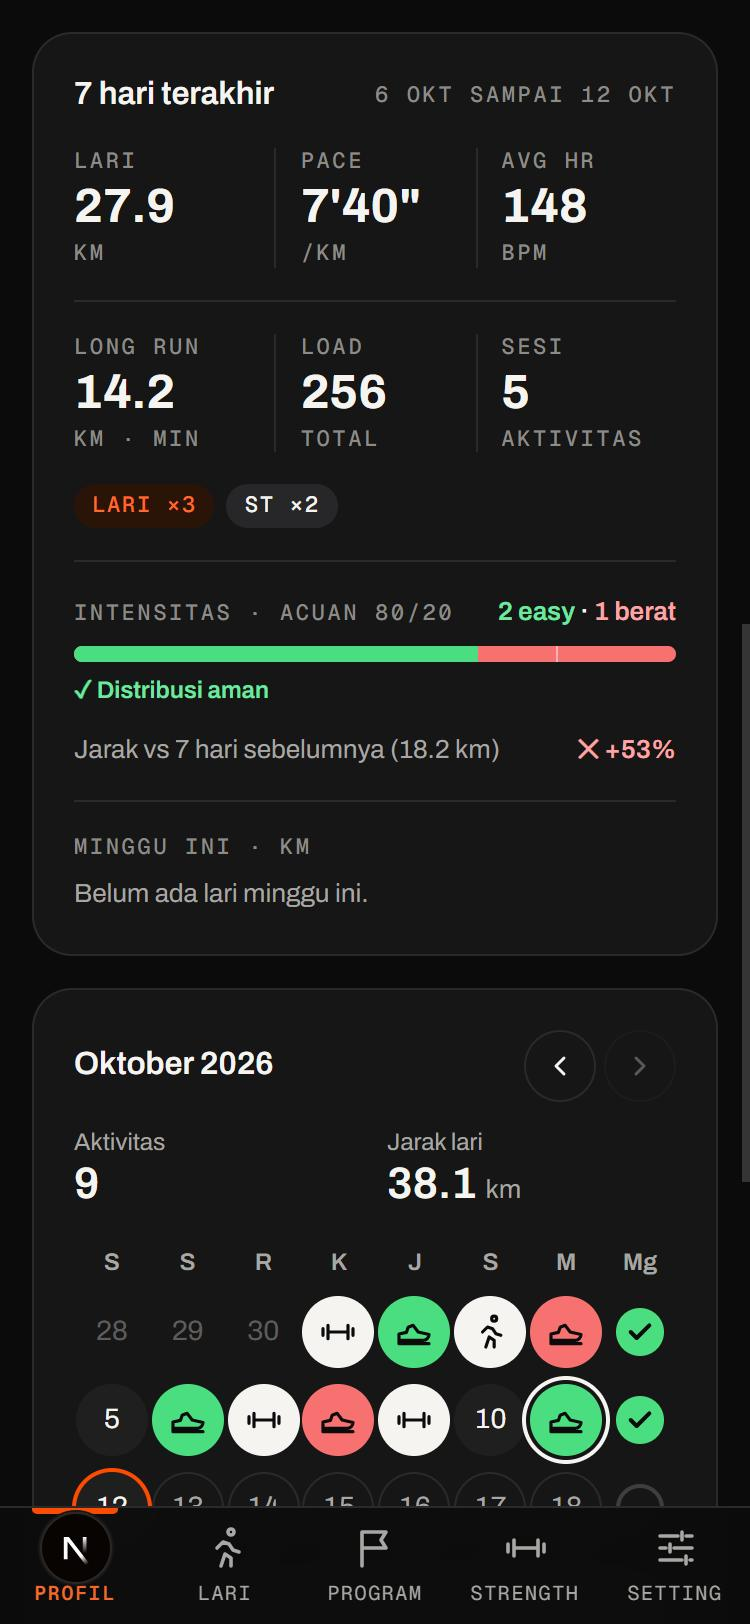
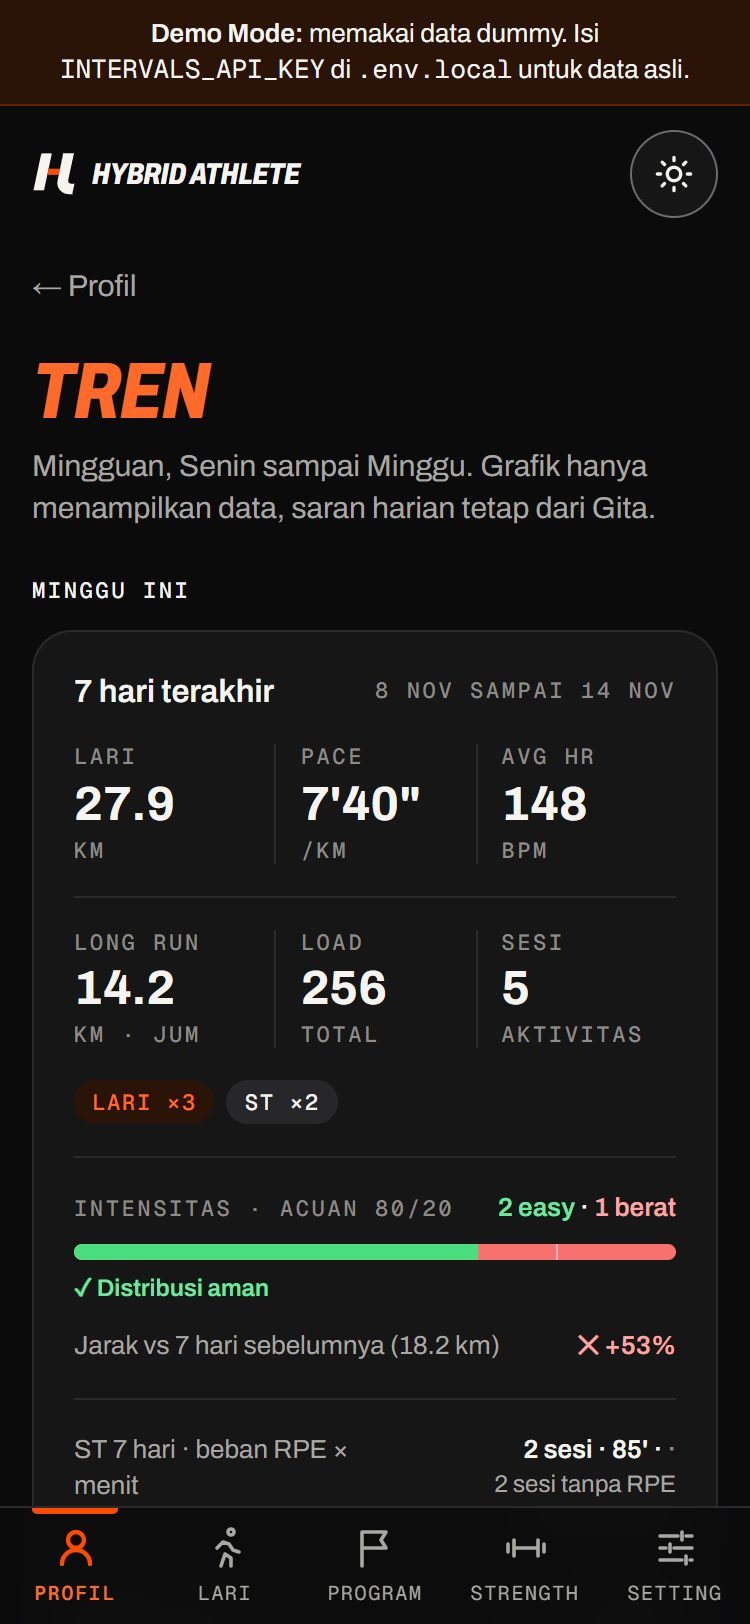
docs: release 1.1.0
PRD header, 4.1/4.2 rows, backlog Bagikan kartu story done, release row.
DESIGN-SYSTEM 6: weekly card, share export, InfoCarousel, collapsible Gita;
story card removed from 9. GUIDE section and screenshots from Demo Mode,
README preview video re-rendered with the weekly card, CHANGELOG 1.1.0,
ARCHITECTURE module and test rows, version 1.1.0.

diff --git a/lib/app-info.ts b/lib/app-info.ts
@@ -9,7 +9,7 @@ import { DOCS } from "./docs-links";
 import { UPSTREAM_REPO } from "./env-schema";
 
 /** Tanggal rilis versi terpasang (YYYY-MM-DD). Naik bersama `version` di package.json; dijaga test terhadap CHANGELOG. */
-export const RELEASE_DATE = "2026-11-02";
+export const RELEASE_DATE = "2026-11-14";
 
 const SEMVER_RE = /^v?(\d+)\.(\d+)\.(\d+)(?:-([0-9A-Za-z.-]+))?$/;
 

diff --git a/docs/PRD.md b/docs/PRD.md
@@ -5,11 +5,11 @@
 
 | | |
 | --- | --- |
-| **Versi saat ini** | 1.0.0 (2026-11-02) · feature freeze |
+| **Versi saat ini** | 1.1.0 (2026-11-14) · Profil ringkas, bagikan kartu minggu ini |
 | **Status** | Dipakai harian oleh pemilik (single user), live di Vercel |
 | **Deploy** | Vercel milik pemilik, dilindungi Deployment Protection (alamat sengaja tidak dicantumkan karena berisi data kesehatan) |
 | **Repo** | https://github.com/khaliladha11/hybrid-athlete-dashboard |
-| **Kualitas** | 81 file test, 910 unit test lolos · 57 test e2e Playwright (34 mobile gelap, 21 desktop terang, 2 sandi) · build produksi lolos · CI GitHub Actions di setiap push & PR (actionlint, unit, audit, bundle, e2e, Lighthouse) |
+| **Kualitas** | 85 file test, 953 unit test lolos · 63 test e2e Playwright (37 mobile gelap, 24 desktop terang, 2 sandi) · build produksi lolos · CI GitHub Actions di setiap push & PR (actionlint, unit, audit, bundle, e2e, Lighthouse) |
 | **Dokumen terkait** | [README](../README.md) · [Panduan](GUIDE.md) · [Keterbatasan](LIMITATIONS.md) · [Dasar ilmiah](REFERENCES.md) · [Kredit](CREDITS.md) · [CHANGELOG](../CHANGELOG.md) · [TRAINING-LOGIC](TRAINING-LOGIC.md) · [ARCHITECTURE](ARCHITECTURE.md) · [DESIGN-SYSTEM](DESIGN-SYSTEM.md) · [Logo](brand/LOGO.md) · [ONBOARDING](ONBOARDING.md) · [SYNC](SYNC.md) · [Spesifikasi 0.13: PROGRAM-HIDUP](PROGRAM-HIDUP.md) · [STRENGTH-HIDUP](STRENGTH-HIDUP.md) · [Spesifikasi 0.15: INSIGHT](INSIGHT.md) · [Rencana 0.16 sampai 1.0: RELEASE-1.0](RELEASE-1.0.md) · [Audit media gerakan](movement-media-audit.md) · [Usulan gerakan 0.9](movement-library-proposal.md) · [NOTICE](../NOTICE.md) |
 
 **Legenda status:** ✅ Selesai · 🟡 Sebagian / ada keterbatasan · ⬜ Belum dibuat · 💡 Ide. Sejak 1.0.0 semua butir ⬜ adalah kandidat **Setelah 1.0** (§7) dan tidak masuk sebelum feature freeze dibuka.
@@ -134,14 +134,16 @@ Aturan ini berlaku untuk setiap fitur baru. Semuanya sudah diuji otomatis.
 | --- | --- | --- |
 | Header profil (nama, usia, gaya hidup, fokus) | ✅ | Dari profil di perangkat sejak 0.11.0 (dulu dari JSON). Tanpa avatar inisial sejak 0.10.1 |
 | Target lomba | ✅ | Kondisi, zona, alat & movement library pindah ke Setting (0.8) |
-| Wellness hari ini (HRV, resting HR, tidur, CTL/ATL/Form) | ✅ | Status ✓ data hari ini / ✕ data lama. Sejak 0.14.3 sinyal yang tidak dikirim jam dalam 14 hari tidak ditampilkan. **HRV:** jam pemilik (integrasi Huawei) tidak mengirim HRV ke intervals.icu, jadi HRV tidak tampil; mapping field `hrv`/`hrvSDNN` sudah benar (§6 #14) |
-| Ringkasan 7 hari (km, pace, HR, long run, load, sesi) | ✅ | Plus distribusi 80/20 & tren km |
+| Wellness hari ini (HRV, resting HR, tidur, CTL/ATL/Form) | ✅ | Status ✓ data hari ini / ✕ data lama. Sejak 0.14.3 sinyal yang tidak dikirim jam dalam 14 hari tidak ditampilkan. Sejak 1.1.0 teks info di bawah angka (metrik kosong, dasar kesiapan, ambang) jadi carousel kartu kecil (scroll-snap, tombol ‹ ›, "1 dari 4"). **HRV:** jam pemilik (integrasi Huawei) tidak mengirim HRV ke intervals.icu, jadi HRV tidak tampil; mapping field `hrv`/`hrvSDNN` sudah benar (§6 #14) |
+| Ringkasan 7 hari (km, pace, HR, long run, load, sesi) | ✅ | Plus distribusi 80/20 & tren km. Sejak 1.1.0 di Tren bagian "Minggu ini" (`/insight#minggu-ini`), bersama beban ST 7 hari dan Week Ledger |
+| Kartu "Minggu ini · lari" di Profil | ✅ | 1.1.0 · `lib/week-run-card.ts`: total km minggu kalender WIB (mentah, 2 desimal), 7 bar Senin sampai Minggu (angka 1 desimal, hari kosong titik), footer jumlah lari & tanggal. Ketuk → Tren. Tombol Generate di Profil dihapus (navigasi bawah tetap) |
+| Bagikan kartu minggu ini sebagai PNG transparan | ✅ | 1.1.0 · `lib/share-card.ts`: story 1080×1920 / feed 1080×1350, teks terang (bawaan) atau gelap, bahasa kartu EN (bawaan) / ID, watermark opsional. SVG dari layout yang sama dengan kartu Profil, font Archivo & Geist Mono disematkan, digambar ke canvas tanpa library. Web Share API dengan file bila didukung, selalu ada Unduh PNG. Tanpa nama dan alamat deploy |
 | Kalender aktivitas bulanan + detail per tanggal | ✅ | Tanpa program: bulan ini & bulan lalu. Dengan program tersimpan (0.13.0, [PROGRAM-HIDUP.md](PROGRAM-HIDUP.md) #5–#6): dari awal program sampai bulan lomba, aktivitas selesai oranye, rencana bercincin warna intensitas, terlewat & dilewati ditandai |
 | Detail aktivitas: split per km + interval / lap | ✅ | `/activity/[id]`. Split dari stream intervals.icu: jarak jam, atau GPS bila jarak hanya dibagi rata / tidak konsisten. Data bertangga diratakan, lonjakan & reset dibuang, hasil divalidasi terhadap ringkasan (0.10.2). Interval hanya tampil bila > 1 |
 | Split cocok dengan Strava | 🟡 | Contoh lari 4,4 km: total moving time sama (44:00), HR per km ±1 bpm, pace per km −9 sampai +7 detik (Strava menghitung ulang jarak 4,42 km, jam 4,44 km) |
 | Aktivitas ganda dari dua sumber (Huawei + Strava) dihitung sekali | ✅ | 0.10.1 · `lib/intervals/dedupe.ts`. Berlaku di kalender, ringkasan 7 hari, saran, dan Program |
 | Edit profil dari dalam aplikasi | ✅ | 0.11.0: nama, usia, gaya hidup, fokus, target lomba, tujuan, blok mingguan/mode bebas di Setting › Profil; kondisi, zona, alat, gerakan sejak 0.8 |
-| Halaman Insight `/insight` ("Lihat tren" dari Profil & kartu terkait, tanpa tab baru) | ✅ | 0.15.0 ([INSIGHT.md](INSIGHT.md) I2): tautan di kartu 7 hari (Profil) dan kartu minggu ini (Program), rentang 6/12 minggu tanpa ambil data ulang. Grafik SVG sendiri (I1), tiap grafik punya ringkasan, `aria-label`, dan "Lihat tabel" (I6) |
+| Halaman Insight `/insight` ("Lihat tren" dari Profil & kartu terkait, tanpa tab baru) | ✅ | 0.15.0 ([INSIGHT.md](INSIGHT.md) I2): tautan di kartu minggu ini (Profil, sejak 1.1.0 seluruh kartu) dan kartu minggu ini (Program), rentang 6/12 minggu tanpa ambil data ulang. Grafik SVG sendiri (I1), tiap grafik punya ringkasan, `aria-label`, dan "Lihat tabel" (I6) |
 | Tren kebugaran CTL/ATL/Form, 6/12 minggu | ✅ | 0.15.0 ([INSIGHT.md](INSIGHT.md) #1): pita Form netral −10 sampai +5; CTL/ATL yang tidak dikirim 14 hari diganti kalimat |
 | Km mingguan dengan pembagian 80/20, minggu cutback/deload, kenaikan > 30% ditandai | ✅ | 0.15.0 ([INSIGHT.md](INSIGHT.md) #2): `isHardRun` & ambang coach yang sama, hanya penanda |
 | Easy run: median pace & HR mingguan, cadence vs target personal | ✅ | 0.15.0 ([INSIGHT.md](INSIGHT.md) #3): median hanya dari lari yang punya nilainya; HR/cadence yang tidak ada ditulis "tidak ada data" |
@@ -157,7 +159,7 @@ Aturan ini berlaku untuk setiap fitur baru. Semuanya sudah diuji otomatis.
 | Aturan 80/20 (≥ 2 lari berat dalam 7 hari → Easy) | ✅ | Lari berat = HR ≥ 155, nama sesi, atau pace cepat |
 | Peringatan kenaikan km > 30% + sisa km aman | ✅ | |
 | Concurrent training (setelah ST kaki / lari berat) | ✅ | |
-| Tampilan ringkas + dropdown rekomendasi | ✅ | 0.7 |
+| Tampilan ringkas + dropdown rekomendasi | ✅ | 0.7. Sejak 1.1.0 kartu di Profil dilipat bila ada lebih dari satu saran atau alasan panjang: saran terberat + chip level + "Lihat detail" (`aria-expanded`); diingat per hari, saran baru yang lebih berat membukanya otomatis (`lib/coach-collapse.ts`) |
 | Tombol terapkan saran satu tap (di generator) | ✅ | Anti turun berantai |
 | Saran ringkas satu baris di atas Generator Lari + link ke detail di Profil | ✅ | 0.8.1. Generator Strength masih kartu lengkap |
 | Saran terhadap sesi rencana hari ini ("Rencana: Tempo 45'. Saran: Easy 30'.") | ✅ | 0.13.1 ([PROGRAM-HIDUP.md](PROGRAM-HIDUP.md) §4.5): basisnya rencana, jadi hanya menurunkan, tidak berantai, tidak memblokir. Terapkan membuka generator versi turun atau kartu long run yang dipendekkan. Tanpa program: perilaku lama |
@@ -395,6 +397,8 @@ Ukuran: **S** ≈ < 1 hari · **M** ≈ 1–3 hari · **L** ≈ > 3 hari.
 | ~~**0.17 Terhubung & mudah dipasang**~~ ✅ ([RELEASE-1.0](RELEASE-1.0.md)) | Kirim workout lari (generator dan program) ke kalender intervals.icu sebagai workout terstruktur, diteruskan ke jam (ST tetap di aplikasi, Copy Set tetap); zona HR dan RPE di Setting; rapikan copy (em dash di `lib/`, istilah "Gita"); pemasangan mudah (Deploy to Vercel, INSTALL-WITH-AI.md, AGENTS.md, Vercel CLI) | Workout sampai ke jam tanpa menyalin, dan orang lain bisa memasang sendiri |
 | ~~**1.0 Rilis**~~ ✅ ([RELEASE-1.0](RELEASE-1.0.md)) | Jalur pembaruan untuk fork (GitHub Action membuka PR dari upstream, migrasi aman, langkah manual ditandai); panduan pengguna lengkap dan bantuan di aplikasi; feature freeze, semua dokumen diselaraskan, tag versi | Stabil dan mudah diperbarui tanpa edit kode |
 
+> 2026-11-14: **1.1.0 dirilis** atas permintaan pemilik (rilis minor pertama setelah feature freeze): Profil ringkas (saran Gita dilipat, carousel info Wellness, kartu "Minggu ini · lari", tanpa tombol Generate), ringkasan 7 hari & Week Ledger pindah ke Tren, dan backlog "Bagikan kartu story" dikerjakan sebagai ekspor PNG kartu mingguan.
+>
 > 2026-11-02 (2): **1.0.0 dirilis.** Feature freeze berlaku (RELEASE-1.0 R7): sesudahnya hanya perbaikan bug, keamanan, dan dokumentasi sampai rencana minor berikutnya disetujui. Audit akhir di [RELEASE-1.0 §12](RELEASE-1.0.md#12-audit-akhir-100-2026-11-02).
 >
 > 2026-11-02: **1.0.0-rc.2 dirilis**: README dipersingkat, [REFERENCES.md](REFERENCES.md) dengan label tingkat bukti, [CREDITS.md](CREDITS.md), [GUIDE.md](GUIDE.md) dan halaman Bantuan di aplikasi, [LIMITATIONS.md](LIMITATIONS.md), backlog ditata ulang menjadi "Setelah 1.0", pemeriksa tautan dokumen di CI. Sisa 1.0: feature freeze, dokumen diselaraskan, tag 1.0.0.
@@ -457,7 +461,6 @@ Setelah 1.0 berlaku feature freeze (RELEASE-1.0 R7): rilis hanya perbaikan sampa
 
 | Prioritas | Fitur | Ukuran | Nilai untuk atlet | Catatan |
 | --- | --- | --- | --- | --- |
-| P2 | **Bagikan kartu story** dari `/activity/[id]`: RunTag → PNG transparan 1920×1280 lewat `<canvas>` (DESIGN-SYSTEM §9) | M | Berbagi sesi ke Instagram/WA dengan gaya app | Tanpa data kesehatan di gambar kecuali yang dipilih atlet |
 | P2 | **Gerakan custom**: tambah gerakan sendiri + alat + rentang beban, tetap lewat validator | M | Library mengikuti alat baru tanpa menunggu developer | Butuh migrasi data (bagian `settings`) dan aturan kondisi tetap berlaku |
 | P3 | **Pengingat/notifikasi** (web push) | L | Konsisten latihan | Butuh service worker push dan izin; tanpa server pihak ketiga |
 | P3 | **Plyometric bersyarat**, progresi bertahap | M | Running economy membaik (Llanos-Lagos 2024, [REFERENCES](REFERENCES.md#kekuatan)) | Ditunda (D6, 2026-10-26): hanya bila shin splints nonaktif, dengan sumber dosis dan test |
@@ -491,6 +494,7 @@ Disimpan sebagai riwayat; rinciannya di §4 dan CHANGELOG.
 | Check-in harian, ambang personal (LTHR, HRV, resting HR) | 0.15.2 |
 | Mode offline, kontras non-teks | 0.16 |
 | Kirim workout lari ke kalender intervals.icu, zona HR & RPE, copy `lib/` tanpa em dash | 0.17 |
+| ✅ **Bagikan kartu story**: dikerjakan sebagai kartu mingguan Profil → PNG transparan story 1080×1920 / feed 1080×1350 (bukan RunTag `/activity/[id]` 1920×1280 seperti usulan lama) | 1.1.0 |
 
 ### Ide yang sengaja **tidak** dikerjakan
 
@@ -532,6 +536,7 @@ Disimpan sebagai riwayat; rinciannya di §4 dan CHANGELOG.
 | 1.0.0-rc.1 | 2026-11-01 | Kandidat rilis 1.0: pembaruan lewat PR untuk salinan & fork, migrasi data berversi, lisensi MIT & NOTICE lengkap, berkas kontribusi, Tentang & versi |
 | 1.0.0-rc.2 | 2026-11-02 | README baru, dasar ilmiah dengan label bukti, kredit, panduan pengguna & halaman Bantuan, keterbatasan, backlog setelah 1.0 |
 | **1.0.0** | 2026-11-02 | **Rilis stabil pertama.** Feature freeze. Dokumen diselaraskan dengan kode, audit akhir ([RELEASE-1.0 §12](RELEASE-1.0.md#12-audit-akhir-100-2026-11-02)), video pratinjau |
+| 1.1.0 | 2026-11-14 | Profil ringkas: saran Gita dilipat, carousel info Wellness, kartu "Minggu ini · lari", tombol Generate dihapus; ringkasan 7 hari & Week Ledger pindah ke Tren; bagikan kartu minggu ini sebagai PNG transparan (story/feed, teks terang/gelap, EN/ID) |
 | 0.15.2 | 2026-10-28 | Insight selesai, tubuh & saran: check-in harian (hanya menurunkan, tanpa berantai), ambang pribadi LTHR/HRV/resting HR, ringkasan bulanan, bagian Tubuh, sinkron `checkins` & cadangan v6 |
 | 0.15.1 | 2026-10-28 | Insight tahap 2, tren kekuatan: rincian set di mode latihan, volume ST per pola & session-RPE, heatmap otot (jarang dilatih, ketuk otot), tren PR dengan tahap, kepatuhan mingguan, kalender heatmap |
 | 0.15.0 | 2026-10-28 | Insight tahap 1, tren lari: rute `/insight` (tanpa tab baru), CTL/ATL/Form, km mingguan 80/20, easy run pace/HR/cadence, VDOT per minggu; grafik SVG sendiri dengan "Lihat tabel" |

diff --git a/docs/GUIDE.md b/docs/GUIDE.md
@@ -12,12 +12,25 @@ Panduan lengkap Hybrid Athlete Dashboard: memakai aplikasi, memasang dan memperb
 
 Kartu **Saran hari ini** di Profil (dan strip saran di Generator Lari) menyebut jenis latihan, level, dan alasannya. Gita adalah nama coach di aplikasi; semua sarannya dihitung dari aturan di [TRAINING-LOGIC.md](TRAINING-LOGIC.md), bukan AI.
 
+- **Ringkas dulu** (1.1.0): bila ada lebih dari satu saran atau alasannya panjang, kartu di Profil hanya menampilkan saran terberat dan chip levelnya. Ketuk **Lihat detail** untuk semua alasan. Pilihanmu diingat sampai besok; saran baru yang lebih berat membuka kartu sendiri.
 - **Level:** Easy (hijau), Moderate (kuning), High (merah). Warna yang sama dipakai di generator dan rencana.
 - **Alasan** tampil di bawah saran, misalnya resting HR di atas rentang pribadimu, sesi kemarin berat, km minggu ini naik lebih dari 30%, atau ST kaki kemarin. Ketuk untuk melihat dasar kesiapan.
 - **Saran hanya menurunkan, tidak memblokir.** Kamu tetap bisa memilih level lain atau tombol **Terapkan** untuk memakai saran dengan satu ketukan. Beberapa pemicu sekaligus tetap hanya turun satu level.
 - **Check-in harian** (opsional, di bawah 10 detik): nyeri shin 4/10 ke atas membatasi lari ke Easy (6/10 ke atas: Easy 30 menit), pegal 7/10 ke atas atau tidur 2/5 ke bawah menurunkan satu level, mood hanya dicatat.
 - **Ambang pribadi:** HR lari berat dari 90% LTHR (diisi di intervals.icu), HRV dan resting HR dari rata-rata 30 harimu. Sebelum datanya cukup, aplikasi memakai ambang umum dan menyebutnya.
 - Data yang tidak dikirim jammu (misalnya HRV dari Huawei) disebut dan aturannya tidak dipakai, bukan dianggap nol.
+
+### Kartu minggu ini & bagikan
+
+Profil menampilkan kartu **Minggu ini · lari** (1.1.0): total km minggu kalender Senin sampai Minggu, bar per hari, dan jumlah lari. Total adalah jumlah jarak mentah, sedangkan angka per hari dibulatkan satu desimal, jadi jumlahnya bisa beda 0.01. Ketuk kartu untuk detail di **Tren › Minggu ini**: pace, HR, long run, load, pembagian 80/20, perubahan km, beban ST, dan Week Ledger.
+
+Tombol **Bagikan** membuat PNG transparan untuk ditempel di atas foto:
+
+- **Format:** Story 1080×1920 atau Feed 1080×1350.
+- **Warna teks:** Teks terang (untuk foto gelap, dengan bayangan lembut) atau Teks gelap. Oranye selalu sama.
+- **Bahasa kartu:** EN (bawaan) atau ID. **Watermark** "HYBRID ATHLETE" bisa dimatikan.
+- Di HP yang mendukung, **Bagikan** langsung membuka menu berbagi (mis. Instagram Story). **Unduh PNG** selalu tersedia.
+- Gambar hanya berisi km, jumlah lari, dan tanggal minggu itu. Tanpa nama dan tanpa alamat aplikasimu.
 
 ### Program mingguan
 
@@ -232,8 +245,8 @@ Setiap rilis di repo ini punya tag (`v1.0.0`, …) dan catatan rilis. Repo salin
 
 | Area | Yang bisa dilakukan |
 | --- | --- |
-| **Profil** | Data diri, target lomba, saran hari ini, wellness, ringkasan 7 hari, dan kalender aktivitas. Sejak 0.15.2 **check-in harian** (nyeri shin, pegal, tidur, mood; di bawah 10 detik) yang hanya bisa menurunkan saran, ambang pribadi dari LTHR/HRV/resting HR, dan ringkasan bulanan di awal bulan. |
-| **Tren** | Sejak 0.15.0, "Lihat tren" membuka grafik 6 atau 12 minggu: CTL/ATL/Form, km mingguan dengan pembagian 80/20 (kenaikan > 30%, cutback, dan deload ditandai), pace/HR/cadence easy run, dan VDOT per minggu dengan selisih ke target. Sejak 0.15.1 juga kekuatan: volume ST per pola dan beban session-RPE, heatmap otot (dengan otot yang jarang dilatih dan gerakan untuk melatihnya), tren PR dengan tahap rep/tempo/varian saat beban mentok, kepatuhan program lari & ST, dan kalender aktivitas 12/26 minggu. Setiap grafik punya kalimat ringkasan dan "Lihat tabel"; data yang tidak dikirim jam ditulis apa adanya. |
+| **Profil** | Data diri, target lomba, saran hari ini (bisa dilipat sejak 1.1.0), wellness dengan info dalam carousel kecil, kartu **Minggu ini · lari** yang bisa dibagikan sebagai PNG, dan kalender aktivitas. Sejak 0.15.2 **check-in harian** (nyeri shin, pegal, tidur, mood; di bawah 10 detik) yang hanya bisa menurunkan saran, ambang pribadi dari LTHR/HRV/resting HR, dan ringkasan bulanan di awal bulan. |
+| **Tren** | Sejak 1.1.0 dibuka dengan ringkasan 7 hari terakhir dan Week Ledger (pindah dari Profil). Sejak 0.15.0, "Lihat tren" membuka grafik 6 atau 12 minggu: CTL/ATL/Form, km mingguan dengan pembagian 80/20 (kenaikan > 30%, cutback, dan deload ditandai), pace/HR/cadence easy run, dan VDOT per minggu dengan selisih ke target. Sejak 0.15.1 juga kekuatan: volume ST per pola dan beban session-RPE, heatmap otot (dengan otot yang jarang dilatih dan gerakan untuk melatihnya), tren PR dengan tahap rep/tempo/varian saat beban mentok, kepatuhan program lari & ST, dan kalender aktivitas 12/26 minggu. Setiap grafik punya kalimat ringkasan dan "Lihat tabel"; data yang tidak dikirim jam ditulis apa adanya. |
 | **Setting** | Kondisi & batasan dari **katalog berbasis riset** (10 kondisi, masing-masing dengan sumber) yang langsung mengubah generator; zona pace per jenis latihan (manual atau dihitung **VDOT Daniels** dari hasil lomba); alat (dumbbell, plat, barbell, band, pull-up bar); pilihan gerakan movement library; tema; dan cadangan data. |
 | **Data intervals.icu** | Ringkasan 7 hari (km, pace, HR, long run, load), kalender aktivitas bulanan (ketuk tanggal untuk detail), detail aktivitas dengan **split per km** (dari data per detik jam atau GPS, divalidasi terhadap ringkasan) dan interval, serta wellness (HRV, resting HR, tidur, CTL/ATL/Form). Aktivitas yang tercatat dobel dari dua sumber (mis. jam + Strava) dihitung sekali. |
 | **Generator lari** | 30/45/60 menit × Easy/Moderate/High dengan 13 pola: Z2, run-walk, cadence drill, tempo, cruise interval, progression run, mini interval, Norwegian 4×4, dan 15/15. Target pace dari zona di Setting, cue & catatan dari kondisi aktif, dan durasinya selalu tepat. |
@@ -256,7 +269,7 @@ Detail aturan dan dasar ilmiahnya ada di **[docs/TRAINING-LOGIC.md](TRAINING-LOG
 
 <table>
   <tr>
-    <td><img src="screenshots/01-profile.jpg" width="220" alt="Profil dengan saran hari ini"></td>
+    <td><img src="screenshots/01-profile.jpg" width="220" alt="Profil: saran Gita dilipat, Wellness dengan carousel info, kartu Minggu ini · lari"></td>
     <td><img src="screenshots/03-run-generator.jpg" width="220" alt="Generator lari dengan strip saran dan kesulitan berwarna"></td>
     <td><img src="screenshots/04-run-workout.jpg" width="220" alt="Kartu tag Norwegian 4x4 dengan Segment Skyline rencana"></td>
   </tr>
@@ -266,12 +279,12 @@ Detail aturan dan dasar ilmiahnya ada di **[docs/TRAINING-LOGIC.md](TRAINING-LOG
     <td align="center"><sub>Workout + Segment Skyline</sub></td>
   </tr>
   <tr>
-    <td><img src="screenshots/02-weekly-summary.jpg" width="220" alt="Ringkasan 7 hari dengan StatRow, 80/20, dan Week Ledger"></td>
+    <td><img src="screenshots/02-weekly-summary.jpg" width="220" alt="Tren bagian Minggu ini: ringkasan 7 hari dengan StatRow dan 80/20"></td>
     <td><img src="screenshots/06-activity.jpg" width="220" alt="Detail aktivitas Norwegian 4x4 dengan kartu tag dan split per km"></td>
     <td><img src="screenshots/08-program.jpg" width="220" alt="Program Half Marathon dengan perkiraan waktu lomba dan detail sumbernya"></td>
   </tr>
   <tr>
-    <td align="center"><sub>7 hari terakhir + Week Ledger</sub></td>
+    <td align="center"><sub>Tren · Minggu ini (7 hari)</sub></td>
     <td align="center"><sub>Detail aktivitas + split per km</sub></td>
     <td align="center"><sub>Program target (5K–FM)</sub></td>
   </tr>
@@ -347,17 +360,17 @@ Detail aturan dan dasar ilmiahnya ada di **[docs/TRAINING-LOGIC.md](TRAINING-LOG
   </tr>
   <tr>
     <td><img src="screenshots/28-insight-body.jpg" width="220" alt="Mode terang: tren check-in dan status ambang pribadi di Insight"></td>
-    <td></td>
+    <td><img src="screenshots/29-share-week.jpg" width="220" alt="Sheet Bagikan kartu minggu ini: pratinjau PNG transparan, format, warna teks, bahasa kartu, watermark"></td>
     <td></td>
   </tr>
   <tr>
     <td align="center"><sub>Tubuh & ambang</sub></td>
-    <td></td>
+    <td align="center"><sub>Bagikan kartu minggu ini</sub></td>
     <td></td>
   </tr>
 </table>
 
-<sub>Screenshot 0.10.0-ui (Profil & detail aktivitas diperbarui di 0.10.1, onboarding & tur di 0.11.2, sinkron di 0.12.2, Program & Hari H di 0.13.2–0.13.3, mode latihan, peta otot & Week Ledger ST di 0.14.1, peta otot per gerakan di 0.14.2, Tren di 0.15.0–0.15.1, check-in di 0.15.2), diambil dalam Demo Mode (data dummy) di lebar 375px.</sub>
+<sub>Screenshot 0.10.0-ui (Profil & detail aktivitas diperbarui di 0.10.1, onboarding & tur di 0.11.2, sinkron di 0.12.2, Program & Hari H di 0.13.2–0.13.3, mode latihan, peta otot & Week Ledger ST di 0.14.1, peta otot per gerakan di 0.14.2, Tren di 0.15.0–0.15.1, check-in di 0.15.2, Profil ringkas & bagikan kartu di 1.1.0), diambil dalam Demo Mode (data dummy) di lebar 375px.</sub>
 
 Semua screenshot diambil di Demo Mode (data fiktif).
 

diff --git a/docs/DESIGN-SYSTEM.md b/docs/DESIGN-SYSTEM.md
@@ -129,10 +129,25 @@ Grafik bar SVG tanpa library. **Lebar bar ∝ durasi, tinggi bar ∝ kecepatan.*
 - Skala: tinggi minimum 10% supaya bar tetap terlihat; untuk lari steady (selisih pace < 60 detik) pakai kecepatan relatif dari 0, bukan min-max, supaya tidak melebih-lebihkan selisih kecil.
 - Aksesibilitas: `<svg role="img" aria-label="…">` + daftar interval tetap ada di bawahnya sebagai sumber data teks.
 
-### Week Ledger (baru, di `WeeklySummary`)
+### Week Ledger (baru, di `WeeklySummary`; sejak 1.1.0 di Tren `/insight#minggu-ini`)
 - Tabel "MINGGU INI · KM · MENIT": baris per hari lari (`SELASA 3.3`) dan sejak 0.14.1 baris ST per sesi (`SENIN · ST LOWER` dengan `45'`), garis rambut antar baris, baris TOTAL LARI lebih besar (`.t-ledger-num` 28px). Komponen klien `components/profile/WeekLedger.tsx` karena sesi ST ada di perangkat.
 - Data dari aktivitas minggu kalender (sudah dihitung di `summarizeLast7Days().calendarWeek`; tambah rincian per hari di komponen).
 - Total adalah jumlah jarak mentah. Angka per hari dibulatkan 1 desimal, jadi jumlahnya bisa beda 0.01 dari total. Itu wajar; jangan "dibetulkan".
+
+### Kartu Minggu ini · lari (1.1.0, `components/profile/WeekRunCard.tsx`)
+- Gaya kartu story: label mono `MINGGU INI · LARI` (`·` redup), total km Display italic condensed 2 desimal + satuan `KM` mono oranye sejajar baseline, 7 bar oranye Senin sampai Minggu (lebar 74, radius 16, tinggi ∝ km sampai 300, minimum 32) dengan angka 1 desimal di atasnya, hari kosong = titik kecil faint di baseline, huruf hari mono, garis rambut, footer mono `3 LARI · 9 SAMPAI 15 NOV`.
+- Satu layout di `lib/week-run-card.ts` (koordinat 1080×1920, blok y 560 sampai 1480, margin kiri 120, tepi kanan grafik 960) dipakai kartu Profil (peran warna → token tema) dan ekspor PNG (warna tetap). Angka total adalah satu-satunya Display di Profil.
+- Aturan angka sama dengan Week Ledger. Selesai = oranye, jadi bar memakai `--brand`.
+- Seluruh kartu adalah tautan ke Tren; tombol Bagikan di luar tautan.
+
+### Ekspor bagikan (1.1.0, `components/share/ShareWeekSheet.tsx`)
+- Bottom sheet `<dialog>` (gaya `.movement-sheet`): pratinjau di atas papan catur (`.checkerboard`) supaya transparansi terlihat, Segmented Format (Story 9:16 / Feed 4:5), Warna teks (Teks terang / Teks gelap), Bahasa kartu (EN / ID), Switch watermark, tombol **Bagikan** (hanya bila Web Share API menerima file) dan **Unduh PNG**.
+- PNG tanpa latar. Teks terang `#F5F4F1` dengan bayangan lembut `0 4px 16px rgba(0,0,0,.35)` pada teks dan bar; teks gelap `#141414` dengan bayangan terang. Oranye selalu `#FC4C02`. Feed memakai blok yang sama di tengah 1080×1350.
+- Font Archivo & Geist Mono disematkan ke SVG sebagai data URL supaya PNG sama dengan layar. Tanpa nama orang dan tanpa alamat deploy.
+
+### InfoCarousel (1.1.0, `components/ui/InfoCarousel.tsx`)
+- Untuk teks info pendek di bawah StatRow (Wellness). CSS scroll-snap tanpa library, kartu `bg-subtle` 85% lebar sehingga kartu berikutnya mengintip, titik indikator (aktif oranye), tombol ‹ › 44px yang nonaktif di ujung.
+- `aria-roledescription="carousel"` pada section, tiap slide `role="group"` + `aria-roledescription="slide"` + label "1 dari 4". Track bisa difokus (panah keyboard). Reduced motion: tombol melompat tanpa scroll halus. Satu item = satu kartu biasa tanpa kontrol.
 
 ### Mode latihan (0.14.1, `components/workout/`)
 - Layar penuh di atas AppBar & BottomNav (lapisan `fixed`, mulai di bawah strip status bar), satu gerakan per layar. Kembali ke Strength tidak menghentikan sesi; halaman Strength menampilkan kartu "Sesi berjalan" dengan garis oranye.
@@ -179,6 +194,7 @@ Grafik bar SVG tanpa library. **Lebar bar ∝ durasi, tinggi bar ∝ kecepatan.*
 ### Coach (`CoachStrip`, `CoachCard`)
 - Hapus garis aksen kiri. Struktur: label mono `SARAN HARI INI` + chip severity (`EASY` / `ISTIRAHAT`), satu kalimat utama, lalu dropdown alasan.
 - Tombol terapkan saran tetap primary kecil (min-h 32 dengan area sentuh diperluas, seperti sekarang).
+- **Dilipat di Profil** (1.1.0): bila ada lebih dari satu saran atau alasan > 140 karakter, kartu menampilkan label + chip severity (pill tone), saran terberat sebagai kalimat utama, dan tombol "Lihat detail · n" / "Tutup detail" (`aria-expanded`, 44px). Rencana hari ini tetap terlihat. Tanpa animasi tinggi: detail muncul dengan fade opacity 150ms (`.gita-detail`). Status per hari di perangkat; saran baru yang lebih berat membukanya otomatis.
 
 ### AppBar & BottomNav
 - AppBar: `LogoMark` 22px (`text-ink`, palang oranye) + wordmark `HYBRID ATHLETE` (Display, 15px), jarak `gap-2`. Tombol tema tetap.
@@ -209,4 +225,3 @@ Grafik bar SVG tanpa library. **Lebar bar ∝ durasi, tinggi bar ∝ kecepatan.*
 ## 9. Kemungkinan lanjutan (bukan bagian rilis ini)
 
 - **MuscleMap** (0.14.2, [STRENGTH-HIDUP.md](STRENGTH-HIDUP.md) §3 & §6): diagram tubuh depan/belakang sebagai komponen SVG sendiri (`components/charts/MuscleMap.tsx`), warna dari token tema sehingga ikut mode gelap/terang. Keputusan terbuka: warna otot utama/sekunder (usulan `--brand` / `--brand-soft`, otot lain `--subtle-strong`) perlu dicatat di sini karena oranye selama ini berarti "selesai".
-- **Bagikan kartu story** dari `/activity/[id]`: render RunTag (komponen yang sama dengan kartu story) ke PNG transparan 1920×1280 lewat `<canvas>`. Ini fitur baru, jadi masukkan dulu ke backlog PRD §7 sebagai P2.

diff --git a/docs/ARCHITECTURE.md b/docs/ARCHITECTURE.md
@@ -120,7 +120,10 @@ Pelanggaran akan melempar `WorkoutValidationError`. Hal yang sama berlaku untuk 
 | `components/insight/StrengthTrends.tsx`, `ProgramCalendarTrends.tsx` | Bagian Kekuatan dan Program & kalender di `/insight`; Demo Mode menambah data ST fiktif (`mockInsightStrength`) tanpa menulis ke perangkat | Client |
 | `components/charts/chart-scale.ts`, `LineChart.tsx`, `BarChart.tsx`, `ChartCard.tsx` | Skala & tata letak murni; grafik garis & batang bertumpuk SVG; kerangka ringkasan + "Lihat tabel" (0.15.0) | Murni / client |
 | `app/insight/page.tsx`, `components/insight/InsightView.tsx` | Rute `/insight` (tanpa tab baru): data intervals.icu dari server, hasil lomba/program/blok dari perangkat, rentang 6/12 minggu dipotong di client | Server + client |
-| `lib/week-ledger.ts` | Baris Week Ledger per hari: km lari + ST per sesi setelah dedupe | Murni |
+| `lib/week-ledger.ts` | Baris Week Ledger per hari: km lari + ST per sesi setelah dedupe. Sejak 1.1.0 tampil di Tren (`/insight#minggu-ini`) | Murni |
+| `lib/week-run-card.ts`, `components/profile/WeekRunCard.tsx` | Kartu "Minggu ini · lari" (1.1.0): model minggu kalender WIB, teks EN/ID, dan layout elemen 1080×1920 yang dipakai kartu Profil (token tema) dan ekspor PNG | Murni + server |
+| `lib/share-card.ts`, `lib/share-export.ts`, `components/share/ShareWeekSheet.tsx` | Ekspor kartu mingguan (1.1.0): ukuran story/feed, opsi, nama file, string SVG transparan (murni); font next/font disematkan sebagai data URL lalu SVG digambar ke canvas → PNG (browser); sheet dengan Web Share API / Unduh PNG | Murni + client |
+| `lib/coach-collapse.ts`, `lib/carousel.ts`, `components/ui/InfoCarousel.tsx` | Kartu Saran Gita yang bisa dilipat (aturan per hari & buka otomatis) dan carousel info scroll-snap untuk Wellness (1.1.0) | Murni + client |
 | `lib/movements/muscle-regions.ts` | Nama otot kurasi → region SVG depan/belakang, otot tanpa region & gerakan teks saja (dengan alasan), ringkasan otot sesi | Murni |
 | `lib/buy-reminder.ts` | Pengingat beli plat per area (lower, upper push, upper pull): syarat 80% mentok di batas alat selama 2 sesi, plat yang membuka progresi terbanyak, tanda tangan untuk tutup/muncul lagi | Server & client (murni) |
 | `lib/training-log.ts` | Penyimpanan log (localStorage) + ekspor/impor | Client |
@@ -284,6 +287,9 @@ Test aturan (generator, periodization, media, settings) memakai profil contoh an
 | `prs.test.ts` | Validasi & gabungan PR dengan tombstone, PR terbaik/terbaru/riwayat, deteksi dari log, PR sebagai titik awal (hanya aturan baru, dibulatkan ke bawah), sinkron bagian `prs`. |
 | `st-session.test.ts` | Session-RPE, kelengkapan set, validasi, tombstone & gabungan, dedupe dengan intervals.icu (tanggal sama, ≤ 2 jam, tanpa jam, satu-ke-satu, sesi terhapus). |
 | `workout-state.test.ts` | Isian set, istirahat & pindah gerakan, timer dari jam setelah dibuka lagi, +15 detik & lewati, hitung mundur tahan, batalkan set, selesai → sesi + log ★, data rusak. |
+| `week-run-card.test.ts` | Minggu kalender WIB mulai Senin, hari kosong, dua lari sehari, huruf hari & rentang tanggal EN/ID (lintas bulan), tunggal/jamak, pembulatan, tinggi bar (0 dan 1 lari, minimum), layout kolom & blok. |
+| `share-card.test.ts` | Ukuran story/feed, geser blok untuk feed, opsi bawaan & nilai rusak, nama file, SVG tanpa latar, tinta terang/gelap dengan oranye tetap, teks EN/ID, watermark, tanpa alamat. |
+| `coach-collapse.test.ts`, `carousel.test.ts` | Kapan Saran Gita dilipat, saran terberat, status per hari & buka otomatis saat lebih berat; mode carousel 0/1/n, label "1 dari n", indeks aktif. |
 | `week-ledger.test.ts` | Baris ST per hari dari sesi lokal, satu baris untuk sesi + aktivitas yang sama, aktivitas tanpa pasangan, di luar minggu. |
 | `st-phase.test.ts` | Kunci fase, aturan per fase, slot ST kaki ≥ 8 hari & Upper ≥ 3 hari, jadwal ST semua jarak, ST Lower ringan taper HM, Hari H Jumat, fase ke tautan generator, batas set Peak/Taper, beban ditahan vs turun beban. |
 | `copy-dashes.test.ts` | Tanpa em dash di saran coach, alasan progresi, catatan & cue generator ST/lari (semua kondisi), cue & catatan kondisi gerakan, dan teks program (DESIGN-SYSTEM §7). |

diff --git a/CHANGELOG.md b/CHANGELOG.md
@@ -4,8 +4,38 @@ Semua perubahan penting di project ini. Format mengikuti [Keep a Changelog](http
 
 ## [Unreleased]
 
+## [1.1.0] · 2026-11-14 · Profil ringkas
+
+Rilis minor pertama setelah 1.0, atas permintaan pemilik: Profil jadi ringkas dan detailnya pindah ke Tren. Backlog "Bagikan kartu story" dikerjakan sebagai ekspor kartu mingguan.
+
 ### Ditambahkan
+- **Kartu "Minggu ini · lari"** di Profil ([GUIDE](docs/GUIDE.md#kartu-minggu-ini--bagikan)):
+  - total km minggu kalender Senin sampai Minggu (WIB, jumlah mentah, 2 desimal);
+  - 7 bar per hari dengan angka 1 desimal, titik kecil untuk hari tanpa lari;
+  - footer `3 LARI · 9 SAMPAI 15 NOV`.
+  - Ketuk kartu untuk detail di Tren.
+- **Bagikan kartu minggu ini** sebagai PNG transparan:
+  - format Story 1080×1920 atau Feed 1080×1350;
+  - Teks terang (bawaan, dengan bayangan lembut) atau Teks gelap;
+  - bahasa kartu EN (bawaan) atau ID;
+  - watermark "HYBRID ATHLETE" opsional.
+  - Font Archivo dan Geist Mono disematkan, digambar ke canvas tanpa library.
+  - Menu berbagi HP (Web Share API) bila didukung, Unduh PNG selalu ada.
+  - Tanpa nama dan tanpa alamat aplikasi.
+- **Saran Gita bisa dilipat** di Profil: bila ada lebih dari satu saran atau alasan panjang, yang tampil hanya saran terberat, chip level, dan "Lihat detail". Pilihan diingat sampai besok, dan saran baru yang lebih berat membuka kartu sendiri.
+- **Carousel info Wellness:** teks di bawah angka (metrik kosong, dasar kesiapan, ambang pribadi) jadi kartu kecil yang bisa digeser. Ada titik indikator, tombol ‹ ›, dan label "1 dari 4" untuk pembaca layar.
 - **Social preview GitHub** (`npm run media:og`, [marketing/README.md](marketing/README.md)): kartu tautan 1280×640 dari template HTML ber-token "Tag", dua varian (HP dengan peta otot Demo Mode, motif Segment Skyline), ekspor PNG/JPG dan render cek 640×320. Kontras teks dan safe area 64 px diperiksa saat render.
+
+### Diubah
+- **Ringkasan 7 hari pindah ke Tren**, ke bagian baru "Minggu ini" di atas pilihan rentang (`/insight#minggu-ini`). Isinya: km, pace, HR, long run, load, sesi, pembagian 80/20, perubahan km vs 7 hari sebelumnya, beban ST 7 hari, dan Week Ledger.
+- Video pratinjau README: adegan Profil sekarang memperlihatkan kartu mingguan. Screenshot panduan `01-profile` dan `02-weekly-summary` diperbarui, ditambah `29-share-week`.
+
+### Dihapus
+- Tombol **Generate lari** dan **Generate ST** di Profil. Navigasi bawah tetap membuka Lari dan Strength, dan aksi dari program (Sesi minggu ini, Terapkan) tetap ada.
+
+### Langkah manual
+- Salinan atau fork dengan workflow pembaruan: merge pull request "Pembaruan dari upstream: v1.1.0" setelah CI hijau.
+- Tidak ada variabel lingkungan baru dan tidak ada migrasi data. Pilihan kartu bagikan dan status lipat Gita hanya disimpan di perangkat (tidak disinkron).
 
 ## [1.0.0] · 2026-11-02 · Rilis stabil
 

diff --git a/README.md b/README.md
@@ -15,7 +15,7 @@
 
 <!-- Pratinjau dibuat ulang dengan `npm run media:video` (marketing/README.md). -->
 <p align="center">
-  <img src="docs/media/preview-readme.webp" width="300" alt="Pratinjau animasi: saran harian Gita di Profil, generator lari lalu Kirim ke jam, mode latihan strength dengan peta otot, program menuju Hari H, dan heatmap otot di Insight">
+  <img src="docs/media/preview-readme.webp" width="300" alt="Pratinjau animasi: saran harian Gita dan kartu minggu ini di Profil, generator lari lalu Kirim ke jam, mode latihan strength dengan peta otot, program menuju Hari H, dan heatmap otot di Insight">
 </p>
 
 <p align="center"><sub>Direkam dari Demo Mode (data fiktif). Galeri lengkap di <a href="docs/GUIDE.md#galeri-screenshot">Panduan</a>.</sub></p>
@@ -120,7 +120,7 @@ Aplikasi ini alat bantu perencanaan latihan pribadi, **bukan pengganti saran dok
 | [CHANGELOG](CHANGELOG.md) | Riwayat perubahan per versi |
 | [INSTALL-WITH-AI](INSTALL-WITH-AI.md) · [AGENTS](AGENTS.md) | Panduan untuk asisten AI dan alat pemrograman AI |
 
-**Roadmap:** versi sekarang 1.0.0 (stabil, feature freeze). Rencana setelah 1.0 ada di [PRD §7](docs/PRD.md#setelah-10).
+**Roadmap:** versi sekarang 1.1.0 (Profil ringkas, bagikan kartu minggu ini). Rencana setelah 1.0 ada di [PRD §7](docs/PRD.md#setelah-10).
 
 ## Untuk developer
 

diff --git a/marketing/README.md b/marketing/README.md
@@ -30,7 +30,7 @@ Ketiganya menjalankan `next build` bila `.next` belum ada, lalu `next start` Dem
 | `og/` | Social preview GitHub: `index.html#a` (HP dengan peta otot) dan `#b` (motif Segment Skyline), `og.js`, `og.css`. Rekomendasi di `OG_RECOMMENDED` |
 | `captions.md` | Caption Threads/IG (Indonesia + Inggris), hashtag, alt text |
 
-Storyboard video (±28 dtk, 30 fps, crossfade 0,3 dtk, tanpa musik): pembuka "Hari ini latihan apa?", Profil + saran Gita, generator lari lalu Kirim ke jam, mode latihan strength + peta otot, Program dengan Hari H, heatmap otot Insight, penutup "Gratis. Pasang sendiri."
+Storyboard video (±28 dtk, 30 fps, crossfade 0,3 dtk, tanpa musik): pembuka "Hari ini latihan apa?", Profil + saran Gita + kartu minggu ini, generator lari lalu Kirim ke jam, mode latihan strength + peta otot, Program dengan Hari H, heatmap otot Insight, penutup "Gratis. Pasang sendiri."
 
 Variasi workout lari diacak oleh server (seed acak), jadi pola lari bisa berbeda di tiap render. Data dan tata letaknya tetap sama.
 

diff --git a/docs/INSIGHT.md b/docs/INSIGHT.md
@@ -202,7 +202,7 @@ Nomor mengikuti cakupan pemilik (#1 sampai #12).
 
 - Mode offline dan banner offline: **1.0**.
 - Kirim workout ke kalender intervals.icu / jam: **1.0**.
-- Bagikan kartu story dari `/activity/[id]`: tetap backlog P2.
+- Bagikan kartu story dari `/activity/[id]`: tetap backlog P2. (Dikerjakan di 1.1.0 sebagai kartu mingguan Profil, lihat PRD §4.1.)
 - ACWR atau "zona aman" beban sebagai alarm cedera (I4).
 - Perubahan saran dari grafik di 0.15.0 dan 0.15.1 (I3).
 
